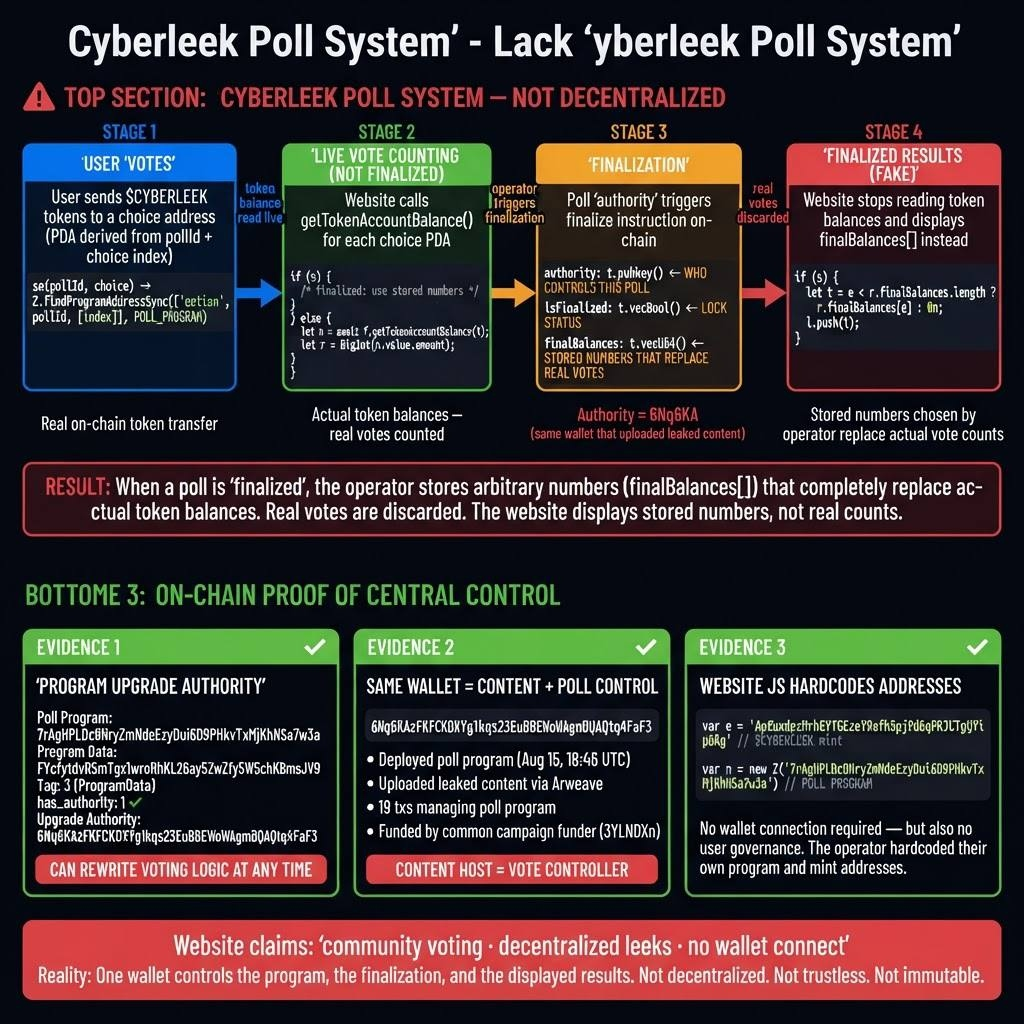
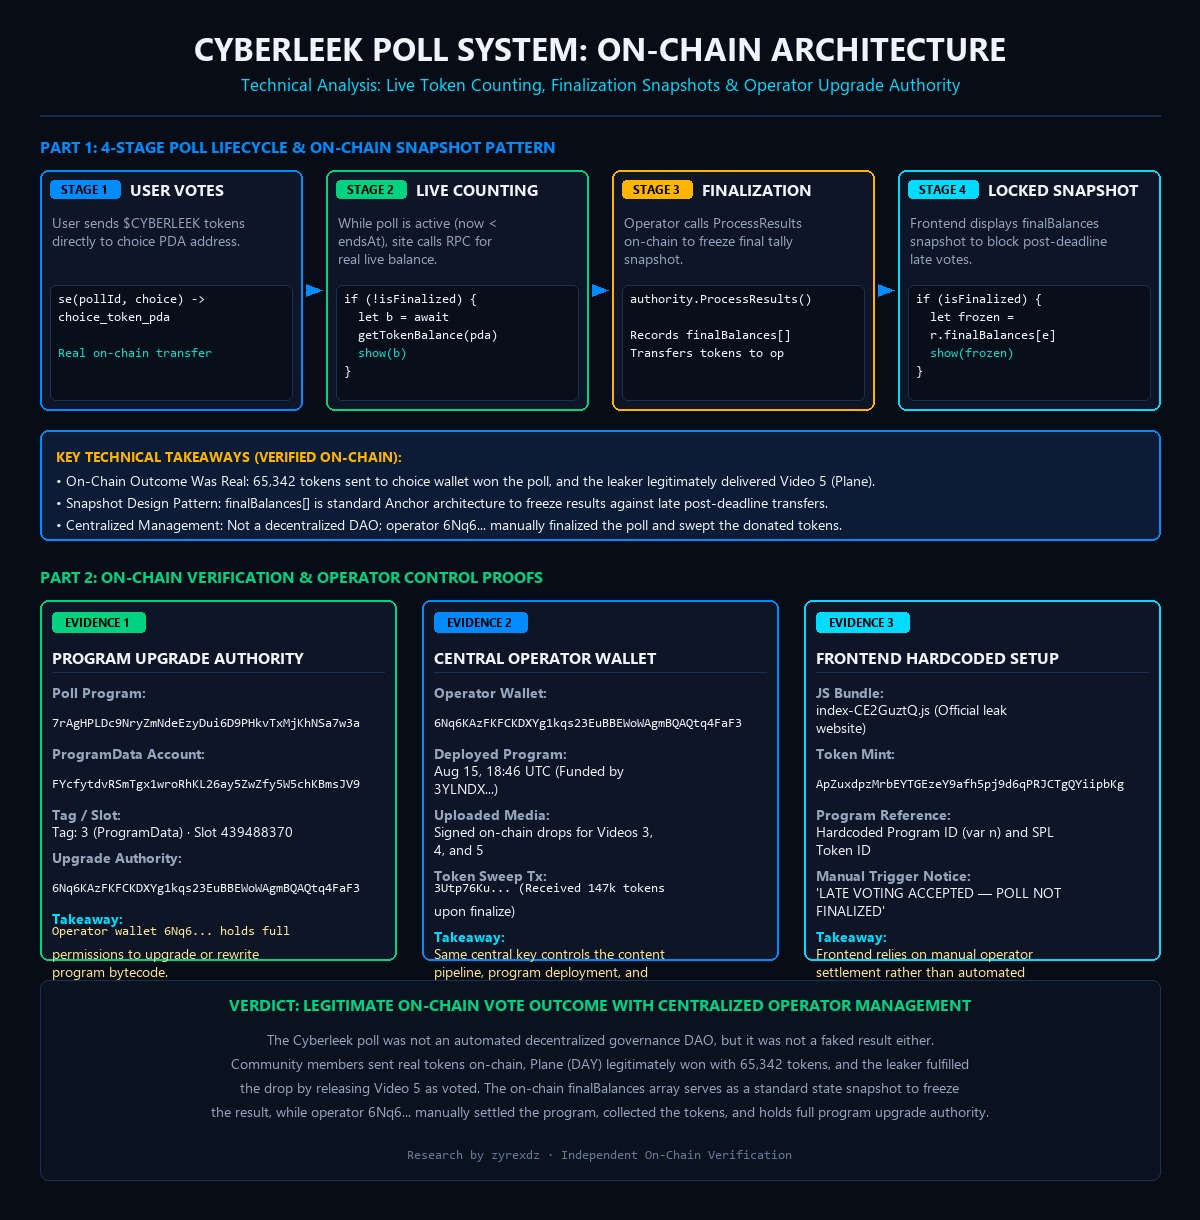
Replace poll diagram with clean objective on-chain snapshot architecture infographic

diff --git a/README.md b/README.md
@@ -1193,7 +1193,7 @@ Community researchers who closely analyzed the `@cyberleek_ar_io` Twitter/X acco
 *(Technical analysis and frontend extraction credit: Community researcher Goons / `justarandomnerd`)*
 
 <div align="center">
-  <img src="assets/onchain_poll_rigged_finalbalances_proof.jpg" alt="CyberLeek Poll System Architecture and Code Breakdown" width="100%" />
+  <img src="assets/onchain_poll_architecture_finalbalances_proof.png" alt="CyberLeek Poll System Architecture and Code Breakdown" width="100%" />
   <p><em>Technical architecture showing the frontend voting decoder, the on-chain finalBalances snapshot mechanism, and operator upgrade authority.</em></p>
 </div>
 
